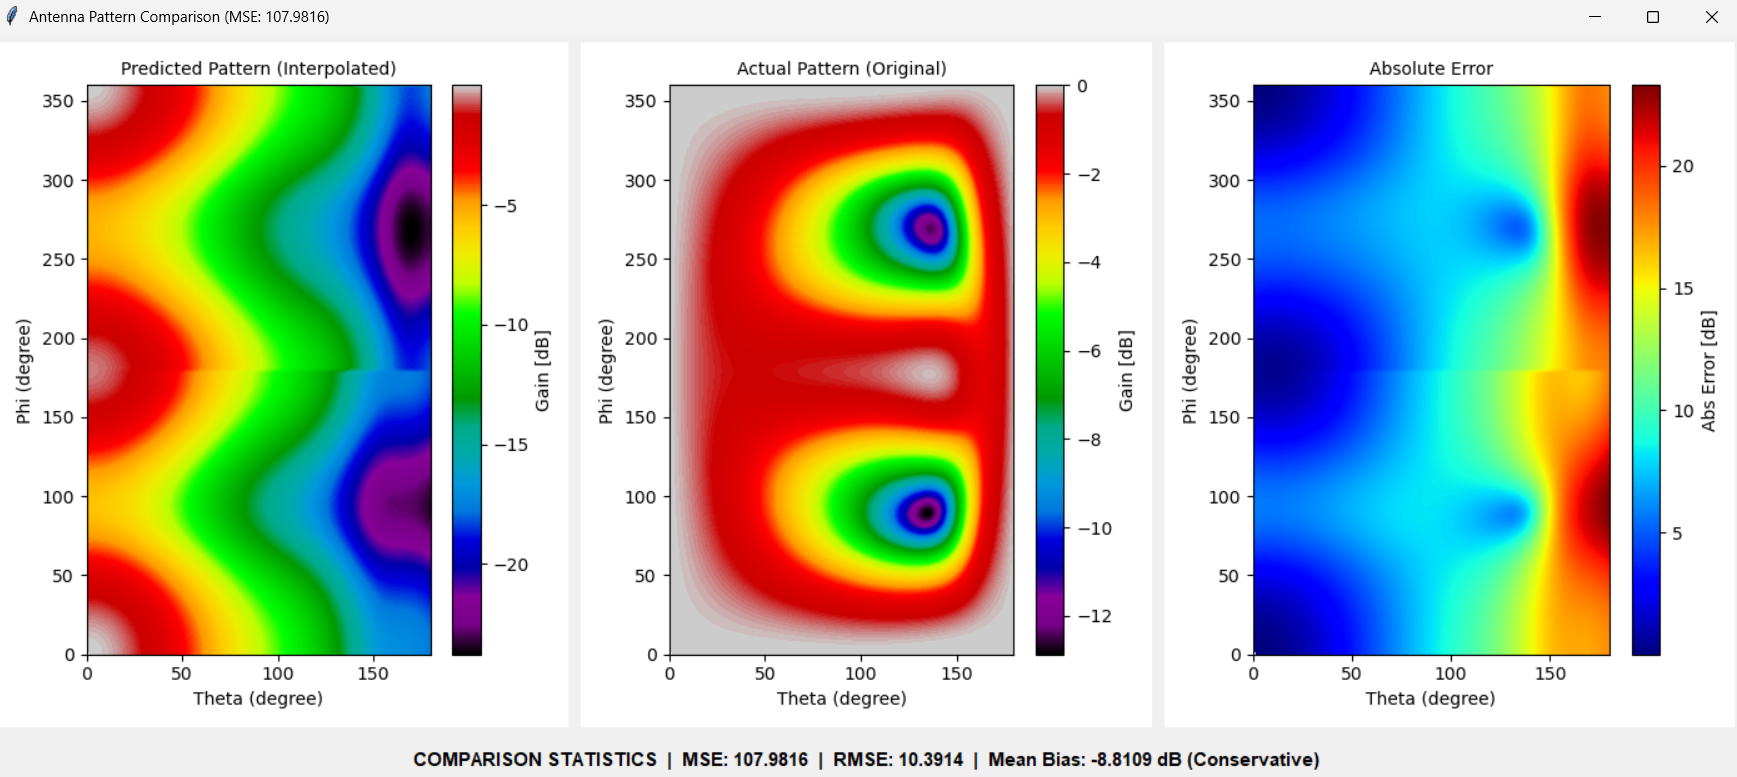
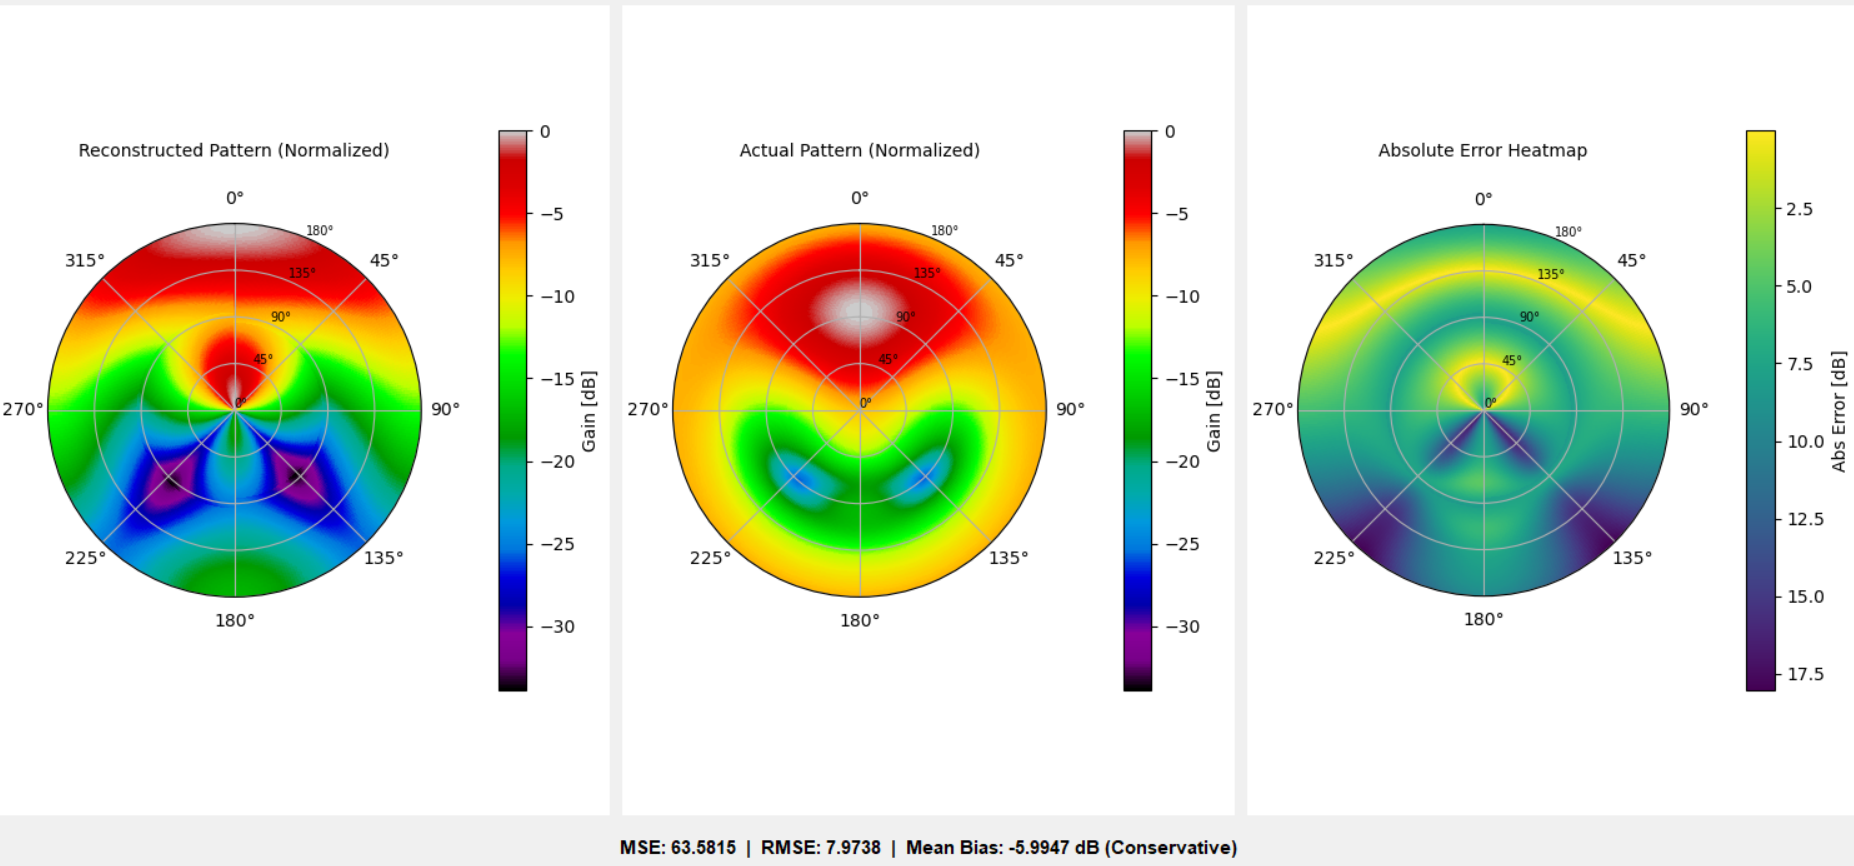
Quartz sync: May 15, 2026, 12:56 PM

diff --git a/quartz/components/Footer.tsx b/quartz/components/Footer.tsx
@@ -14,7 +14,7 @@ export default ((opts?: Options) => {
     return (
   <footer class={`${displayClass ?? ""}`}>
     <p>
-    Last updated: April 30, 2026. © Paul Mola.
+    Last updated: May 15, 2026. © Paul Mola.
     </p>
   </footer>
     )

diff --git a/content/Technical Projects/antenna-pattern-interpolator.md b/content/Technical Projects/antenna-pattern-interpolator.md
@@ -30,17 +30,23 @@ Paul's Interpolation Engine (PIE) is a tool designed to reconstruct the full 3-D
 * This allows you to reconstruct the full pattern using 720 datapoints (360 Azimuth, 360 Elevation). <b>Doing this by measurement would require around 65,000 datapoints</b>.
 * This tool requires ~1% of the required data to function, so there is an obvious tradeoff in accuracy. This is a tool for rapid estimation, not precise calculation.
 
+![Pre Interpolation Pattern](PreInterpolationRaw.png)
+
+<p align="center" style="font-size: 0.8rem; color: grey; margin-top: -10px;">
+  <em>Figure 1: PIE Graphic User Interface. Original Pattern Window.</em>
+</p>
+
 ![Cover Page](CoverPage.png)
 
 <p align="center" style="font-size: 0.8rem; color: grey; margin-top: -10px;">
-  <em>Figure 1: PIE graphic user interface. 3D Pattern Window</em>
+  <em>Figure 2: PIE Graphic User Interface. Reconstructed 3D Pattern Window.</em>
 </p>
 
 * $\mathbf{G}_{az}(\phi)$ represents the gain in the azimuthal plane where $\theta$ is fixed as $90^\circ$ or $0^\circ$ depending on mounting.
 * $\mathbf{G}_{el}(\theta)$ represents the gain in the elevation plane where $\phi=0^\circ$ for the front hemisphere and $\phi=180^\circ$ for the back.
 * Data must be normalized such that the maximum gain equals $0~\text{dB}$ to preserve the integrity of the Summing Algorithm.
 
-The goal of this tool is to aid in rapid visualization of antenna coverage without the time-consuming full-sphere anechoic measurements or computationally expensive 3-D simulations.
+The goal of this tool is to aid in rapid prototyping and visualization of antenna patterns without the time-consuming anechoic chamber measurements or computationally expensive 3-D simulations.
 
 
 <div class="mermaid-container" style="display: flex; justify-content: center; transform: transform-origin: top center;">
@@ -71,7 +77,7 @@ graph TD
 </div>
 
 <p align="center" style="font-size: 0.8rem; color: grey; margin-top: -10px;">
-  <em>Figure 2: Interpolation Flowchart</em>
+  <em>Figure 3: Interpolation Flowchart.</em>
 </p>
 
 <br>
@@ -81,34 +87,35 @@ graph TD
 > 
 > <div align="center">
 >   <img src="U7OutdoorImage.png" alt="UniFi U7 Outdoor Router">
->   <p style="font-size: 0.8rem; color: grey; margin-top: -10px;"><em>Figure 3: UniFi U7 Outdoor Router</em></p>
+>   <p style="font-size: 0.8rem; color: grey; margin-top: -10px;"><em>Figure 4: UniFi U7 Outdoor Router.</em></p>
 > </div>
 > 
 > Contained below are a couple of graphs provided by UniFi for this router [1].
 > 
 > <div align="center">
 >   <img src="U7-Outdoor-Patterns.png" alt="Antenna Pattern">
->   <p style="font-size: 0.8rem; color: grey; margin-top: -10px;"><em>Figure 4: UniFi-provided antenna patterns for the U7 Outdoor Router</em></p>
+>   <p style="font-size: 0.8rem; color: grey; margin-top: -10px;"><em>Figure 5: UniFi-provided antenna patterns for the U7 Outdoor Router.</em></p>
 > </div>
 > 
 > Aside from these graphs, UniFi also provides the data points for their antenna patterns in a `.ant` file:
 > * **First 360 values:** Azimuth plane
 > * **Next 360 values:** Elevation plane
 >
-> All 3D patterns on this page are reconstructed using the `.ant` file for a **U7 Router @ 5 GHz**.
+> All 3D patterns on this page are reconstructed using the `.ant` or `.txt` file for a **U7 Router operating at 5 GHz**.
 
 ## 2D Interpolation
 
-The tool accepts text file inputs (.ant, .txt, .csv) containing a column of gain values (in normalized dB). The only requirements are:
+The tool accepts text file inputs (.ant or .txt) containing a column of gain values. The only requirements are:
  * The total number of data points is an <b>even</b> number divided equally between azimuth and elevation (top half of file is azimuth data, bottom half is elevation).
  * The total number of data points is at least 10 (Minimum: 5 Azimuth, 5 Elevation).
+ * Input gain values should be in dB. The absolute gain reference is discarded when the data is normalised to the peak value.
 
- Before passing these data points for 3-D interpolation, Cubic Splines are used to map the arbitrary number of input points to a standard 360-point grid at 1-degree resolution.
+ Before passing these data points for 3-D interpolation, cubic splines are used to map the arbitrary number of input points to a standard 360-point grid at 1-degree resolution.
 
 ![Interpolation Demonstration](/static/InterpolationDemo.png)
 
  <p align="center" style="font-size: 0.8rem; color: grey; margin-top: -10px;">
-   <em>Figure 5: 2D interpolation using Cubic Splines</em>
+   <em>Figure 6: 2D Interpolation Example with Cubic Splines.</em>
  </p>
 
 ## 3D Interpolation
@@ -120,16 +127,16 @@ The purpose of 3-D interpolation is to take the smoothed input data ($360$ Azimu
 > ![SummingPatternT](ReconstructedPatternSummingTRUE.png)
 
 <p align="center" style="font-size: 0.8rem; color: grey; margin-top: -10px;">
-  <em>Figure 6: 3-D radiation pattern reconstructed using the Summing Algorithm</em>
+  <em>Figure 7: 3-D Radiation Pattern Reconstructed with Summing Algorithm.</em>
 </p>
 
-The first method is the Summing Algorithm [3, p.1]. This approach adds the logarithmic (dB) gain elevation and azimuth patterns. This is mathematically equivalent to multiplying the linear gain patterns.
+The first method is the Summing Algorithm [3, p.1]. This approach adds the logarithmic (dB) gain elevation and azimuth cuts. This is mathematically equivalent to multiplying the linear gain patterns.
 
 $$
 {G}_{\text{sum}}(\theta, \phi) = G_{\text{az}}(\phi) + G_{\text{el}}(\theta) \ [dB]
 $$
 
-* This method can perfectly reconstruct omni-directional patterns (e.g., dipoles) with no error due to their inherent axial symmetry [2,p.2].
+* This method can perfectly reconstruct omni-directional patterns (e.g., dipoles) with no error due to their inherent axial symmetry, however, it assumes pattern separability [2,p.2].
 * The Summing method is effective at reconstructing the main lobe of directive antennas but interpolation can fail with side lobes.
 * Summing <u>systematically underestimates gain</u> in complex directional antennas. This can be good if you want a conservative estimate.
 * Summing can introduce artifacts ("creases") at the intersection of the principal cuts.
@@ -141,10 +148,10 @@ $$
 >![ApproximationPatternT](ReconstructedPatternApproximationTRUE.png)
 
 <p align="center" style="font-size: 0.8rem; color: grey; margin-top: -10px;">
-  <em>Figure 7: 3-D radiation pattern reconstructed using the Approximation Algorithm</em>
+  <em>Figure 8: 3-D Radiation Pattern Reconstructed with Approximation Algorithm.</em>
 </p>
 
-The Approximation Algorithm is a variation on summing which introduces geometric cross-weighting. This means that the magnitude of the azimuthal cut is used to weigh the contribution of the elevation cut and vice versa. Or in other words, one of the principal planar cuts is related to its orthogonal pair as a function of its normalized linear magnitude. This approach addresses the inherent weakness of summing with reconstructing side lobes.
+The Approximation Algorithm is a variation on summing which introduces geometric cross-weighting (p-norm blend). This means that the magnitude of the azimuthal cut is used to weigh the contribution of the elevation cut and vice-versa. In other words, one of the principal planar cuts is related to its orthogonal pair as a function of its normalized linear magnitude. This approach addresses the inherent weakness of summing with reconstructing side lobes.
 
 At an arbitrary point $(\theta, \phi)$, the approximated antenna gain is [2, p.2-3]:
 
@@ -193,7 +200,7 @@ $$
 
 Interpolation is governed by the <b>normalization parameter ($k$)</b>, which controls the mathematical locus of the weights. Increasing k produces a more conservative (lower gain) estimate.
 * **$k=1$**: Applies standard linear weighting.
-* **$k=2$** (Default): Minimizes approximation error for standard directional antennas [2,p.3].
+* **$k=2$** (Default): Uses Euclidean blending (square root of the sum of squares). This has been seen to minimize approximation error for standard directional antennas [2,p.3].
 * **$k \to \infty$**: The behavior converges to the Summing Algorithm.
 
 <br>
@@ -204,10 +211,10 @@ Interpolation is governed by the <b>normalization parameter ($k$)</b>, which con
 >![HybridPatternT](ReconstructedPatternHybridTRUE.png)
 
 <p align="center" style="font-size: 0.8rem; color: grey; margin-top: -10px;">
-  <em>Figure 8: 3-D radiation pattern reconstructed using the Hybrid Algorithm</em>
+  <em>Figure 9: 3-D Radiation Pattern Reconstructed with Hybrid Algorithm.</em>
 </p>
 
-The Hybrid Algorithm [2, p.2] is a weighted mix that uses the Summing algorithm for the main lobe (where it is most accurate) and the approximation algorithm for the side lobes. This approach works by increasing or decreasing the weight of the two algorithms based on angular distance.
+The Hybrid Algorithm [2, p.2] is a weighted mix of the Summing and Approximation algorithms which cross fades based on local gain intensity. This approach works by increasing or decreasing the weight of the two algorithms based on angular distance.
 
 $$
 G_{\text{hyb}}(\theta, \phi) = [G_{\text{sum}}(\phi, \theta) \cdot w_3] + [{G}_{\text{app}}(\theta, \phi) \cdot (1 - w_3)]
@@ -230,34 +237,9 @@ $$
 
 ## Evaluation of Error
 
-For the UniFi antennas, I did not have the full 3-D pattern available to me, only the principal cuts. So 3-D interpolation error was found by comparing the original principal planes with cuts made from the reconstructed 3-D pattern. 
+For the UniFi U7 Outdoor, I did not have the full 3-D pattern available to me, only the principal cuts. It would not have been rigorous, or even meangful, to compare planar slices from the reconstructed pattern with the planar slices used as an input. There is little that can be extrapoled from such a restricted scope to the overall error or error in key pattern features.
 
-$$
-\text{Error}_{\text{az}} = G_{\text{az}}(\phi) - \hat{G}(\phi, \theta = \frac{\pi}{2})
-$$
-
-$$
-\text{Error}_{\text{el}} = 
-\begin{cases} 
-G_{\text{el}}(\theta) - \hat{G}(\theta, \phi=0) & 0 \le \theta < \pi \\
-G_{\text{el}}(\theta) - \hat{G}(\theta, \phi=\pi) & \pi \le \theta < 2\pi 
-\end{cases}
-$$
-
-This produces a graph which looks like:
-![ErrorDemoH](ErrorDemoH.png)
-
-<p align="center" style="font-size: 0.8rem; color: grey; margin-top: -10px;">
-  <em>Figure 9: Error comparison between original principal planes and reconstructed pattern cuts</em>
-</p>
-
-> [!WARNING]
-> **This is a non-rigorous approach to calculating error**! While useful, cases may exist where an interpolation method has greater error in the principal slices while having less error in the interpolated 3-D pattern overall (or vice versa). The optimal way to calculate 3-D interpolation error would be finding the difference between the original 3-D antenna pattern and the pattern reconstructed from the principal planes. <br>
-> $$
-> \text{Error}= \left| G(\theta, \phi) - \hat{G}(\theta, \phi) \right|
-> $$
->
-> > [!Success] Note: Using a different antenna pattern, I went back and [[CalculatingTotalError|calculated total error here]] using the optimal method.
+> I decided to export a pattern from HFSS, manually extract the azimuth and elevation slices, interpolate a full pattern, then compare the full 3D-patterns. The results can be found [[CalculatingTotalError|here]]. 
 
 
 ## References

diff --git a/content/Notes/CalculatingTotalError.md b/content/Notes/CalculatingTotalError.md
@@ -11,44 +11,32 @@ tags:
 
 ## Overview
 
-For one of my technical projects, I created an [[antenna-pattern-interpolator|Antenna Pattern Interpolation Tool]] (named "PIE") which was an open source recreation of a function inside MATLAB's Antenna Toolbox. However, when developing it, I used antenna patterns provided by UniFi for their commercial routers. These only had the principal 2D cuts, so I wasn't able to calculate total error by comparing 3D patterns before and after interpolation. 
+For one of my technical projects, I created an [[antenna-pattern-interpolator|Antenna Pattern Interpolation Tool]] (named "PIE") which was an open source recreation of a function inside MATLAB's Antenna Toolbox. However, when developing it, I used antenna patterns provided by UniFi for their commercial routers. These only had the principal 2D cuts, so I wasn't able to calculate total error by comparing 3D patterns before and after interpolation. What I'm setting out to do here is export the principal 2D slices of an antenna pattern from HFSS, run PIE to get the reconstructed 3D pattern, and then compare that with the 3D antenna pattern exported from HFSS. 
 
-What I'm setting out to do here is export the principal 2D slices of an antenna pattern from HFSS, run PIE to get the reconstructed 3D pattern, and then compare that with the 3D antenna pattern exported from HFSS. This would give me a more robust way to test how the tool functions looking at total error.
+$$
+\text{Error}= \left| G(\theta, \phi) - \hat{G}(\theta, \phi) \right|
+$$
+
+This would give me a more robust way to test how the tool functions by looking at total error. In addition, I can more easily see how the algorithms perform when presented with complex patterns where the underlying assumptions (e.g. pattern seperability) are violated.
 * All gain patterns are for the [[patch-antenna|Microstrip Patch Antenna]] I designed.
-* Note: Interpolation was performed using default weights ($k=2.0$, $n=5.0$)
+* Note: Interpolation was performed using standard weights ($k=2.0$, $n=5.0$). Improved results could be found by tuning weights, but I wanted to test the script's default performance.
 
 ## Exporting from HFSS
 
-First, I exported the 2D and 3D gain plots for the antenna. This data was exported from HFSS in the form of a CSV, but representative images are displayed below:
-
-<div style="display: flex; justify-content: center; gap: 20px;">
-  <div style="width: 48%; text-align: center;">
-    <img src="2DPolarPlot-Elevation.png" alt="2D ElevationPlot Patch" width="100%">
-    <p style="font-size: 0.8rem; color: grey; margin-top: 5px;">
-      <em>Fig. 1. Patch antenna gain plot, elevation cut, exported from HFSS.</em>
-    </p>
-  </div>
-
-  <div style="width: 48%; text-align: center;">
-    <img src="2DPolarPlot-Azimuth.png" alt="2D AzimuthPlot Patch" width="100%">
-    <p style="font-size: 0.8rem; color: grey; margin-top: 5px;">
-      <em>Fig. 2. Patch antenna gain plot, azimuthal cut, exported from HFSS.</em>
-    </p>
-  </div>
-</div>
+First, I exported the 3D gain plots for the antenna. This data was exported from HFSS in the form of a CSV, but representative images are displayed below:
 
 <div style="display: flex; justify-content: center; align-items: flex-end; gap: 20px;">
   <div style="width: 40%; text-align: center;">
-    <img src="3DPolarPlot.png" alt="3D PolarPlot Patch" width="100%">
+    <img src="3DPolarPlot.png" alt="3D Polar Plot" width="100%">
     <p style="font-size: 0.8rem; color: grey; margin-top: 5px;">
-      <em>Fig. 3. Patch antenna 3D gain plot, exported from HFSS.</em>
+      <em>Fig. 1. Patch Antenna 3D Polar Plot, Normalized Gain. Exported from HFSS.</em>
     </p>
   </div>
 
   <div style="width: 55%; text-align: center;">
-    <img src="2DGainContourPlotHFSSPatch.png" alt="2D Gain Contour Plot Patch" width="100%">
+    <img src="MicrostripPatchModel.png" alt="Patch Antenna Geometry" width="100%">
     <p style="font-size: 0.8rem; color: grey; margin-top: 5px;">
-      <em>Fig. 4. Patch antenna 2D gain heatmap, exported from HFSS.</em>
+      <em>Fig. 2. Patch Antenna Geometry. Exported from HFSS.</em>
     </p>
   </div>
 </div>
@@ -56,7 +44,7 @@ First, I exported the 2D and 3D gain plots for the antenna. This data was export
 
 ## Interpolation Output
 
-Some minor reformatting was required to convert the CSVs for the 2D polar graphs into a single ```.ant``` file. I then used this file as an input to generate the following 3D graphs with PIE:
+Next, I used a script to extract the azimuth and elevation cuts as text files from the CSV with the full 3D pattern. I used this file as an input to generate the following 3D graphs with PIE:
 
 <p align="center">
   <img src="SummingPostInterpolation.png" width="50%">
@@ -102,11 +90,11 @@ Now that I had the CSVs for both the 3D pattern from HFSS and the 3D pattern fro
   <em>Fig. 8. Patch antenna error plots, summing algorithm.</em>
 </p>
 
-* Main lobe has been reconstructed in the low $\theta$ region ($\theta < 130^{\circ}$), however, with noticeable angular spreading. We can consider this degradation relatively negligible given that the absolute error graph is predominantly blue in this region, indicating low error (< 5 dB).
+* The main lobe has been roughly reconstructed. However, there is a noticeable low-gain band around $90^{\circ}$ on the radial axis. This band seems to drive error in the forward hemisphere.
 
-* The two nulls have been reconstructed at the correct $\phi$ position (approx. $90^{\circ}$ and $270^{\circ}$). However, we can see that the $\theta$ position of these nulls has been severely degraded.
+* The location of the nulls has been correctly captured in the reconstruction with minor angular spreading. There are, however, noticeable errors in gain magnitude as seen in the error.
 
-* As a result of the failure to reconstruct the null structure, large portions of the high-$\theta$ region ($\theta > 120^{\circ}$) are dominated by severe error (red and dark orange).
+* Overall, the mean bias of -6 dB shows that the algorithm has a systematic tendency to underestimate gain considerably.
 
 ### Approximation Algorithm
 
@@ -117,9 +105,13 @@ Now that I had the CSVs for both the 3D pattern from HFSS and the 3D pattern fro
   <em>Fig. 9. Patch antenna error plots, approximation algorithm.</em>
 </p>
 
-* Main lobe has been successfully reconstructed with less angular spreading.
+* Interestingly, this method was by far the most accurate with the lowest RMSE of 4.8 dB. 
 
-* Nulls have been reconstructed with even more severe degradation in $\phi$-axis spread.
+* There is better main lobe reconstruction as the radial $90^{\circ}$ null band has decreased.
+
+* While the gain magnitude of the nulls was correctly reconstructed, even more severe degradation in $\phi$-axis spread is observed. The nulls are smeared into a continuous band at the aft hemisphere. This causes the most noticeable zone of error in the back lobe (around $225^{\circ}$ and $135^{\circ}$ on the angular axis).
+
+* With a mean bias of only -1.33 dB, the Approximation method stayed remarkably close to the overall energy envelope of the actual pattern, though still a slight underestimation.
 
 
 ### Hybrid Algorithm
@@ -131,14 +123,16 @@ Now that I had the CSVs for both the 3D pattern from HFSS and the 3D pattern fro
   <em>Fig. 10. Patch antenna error plots, hybrid algorithm.</em>
 </p>
 
-* Same fundamental pattern, successful main lobe reconstruction, failed null reconstruction.
+* Interestingly the hybrid method, which was designed to be the best of both worlds, has the worst performance in this for this pattern. Mixing approximation and summing seems only to have inhereted the errors of both algorithms. 
 
-* We can note that $\phi$-axis spread is worse than the summing algorithm but better than the approximation algorithm.
+* Noticeably, the null band in the main lobe has increased in magnitude. Additionally, the aft-nulls have severe angular smearing with the incorrect gain magnitude of summing.
+
+* The severe mean bias indicates that the Hybrid method aggressively under-predicted the gain.
 
 ## Comparison of Algorithms
 
-* In terms of total error, we find that the <u>approximation algorithm achieved the best performance overall</u> (MSE: 74.11, RMSE: 8.61 dB), followed by the hybrid algorithm (MSE: 88.67, RMSE: 9.42 dB), and then the summing algorithm (MSE: 107.98, RMSE: 10.39 dB). This is interesting because while it is intuitive to assume that the summing algorithm would perform worse, the tradeoffs between the approximation and hybrid algorithms are much more subtle.
+* In terms of total error, we find that the <u>approximation algorithm achieved the best performance overall</u> (MSE: 22.7562, RMSE: 4.7703), followed by the summing algorithm (MSE: 63.5815, RMSE: 7.9738), then the hybrid algorithm (MSE: 102.0820, RMSE: 10.1036). This is interesting because while it is intuitive to assume that summing would underperform approximation, the tradeoffs between the approximation and hybrid algorithms are much more subtle.
 
 * From the given patterns, we find that all algorithms exhibit a negative mean bias. This indicates they have a systematic behavior of underestimating the gain. 
-   * However, we find that the approximation algorithm retained the least negative bias (-6.97 dB), followed by the hybrid algorithm (-7.95 dB), then the summing algorithm (-8.81 dB).
-   * This matches exactly what we expect from the literature: that the approximation algorithm is relatively the most "optimistic", the summing algorithm is the most "conservative", and the hybrid algorithm is somewhere in between depending on the weights used.
+   * However, we find that the approximation algorithm retained the least overall bias (-1.334 dB), followed by the summing (-5.9947 dB), then hybrid algorithms (-8.3444 dB).
+   * This matches exactly what we expect from the literature: that the approximation algorithm is relatively the most "optimistic", the summing algorithm is the most "conservative".

diff --git a/content/Technical Projects/patch-antenna.md b/content/Technical Projects/patch-antenna.md
@@ -17,9 +17,9 @@ tags:
   </div>
   
   <div style="flex: 1.5; text-align: center;">
-    <img src="MicrostripPatchAntenna.png" width="100%">
+    <img src="MicrostripPatchModel.png" width="100%">
     <p style="font-size: 0.8rem; color: grey; margin-top: -5px;">
-      <em>Figure 2: Simulated Patch Antenna</em>
+      <em>Figure 2: Simulated Patch Antenna, Exported from HFSS</em>
     </p>
   </div>
 
@@ -65,37 +65,10 @@ $$
 ## Simulation
 Using the initial calculated geometry, I simulated the antenna performance with HFSS. This step was used to iteratively refine the calculated values before fabrication. The images below pertain to the final values.
 
-<div style="display: flex; justify-content: center; gap: 20px;">
-  <div style="width: 48%; text-align: center;">
-    <img src="2DPolarPlot-Elevation.png" alt="2D ElevationPlot Patch" width="100%">
-    <p style="font-size: 0.8rem; color: grey; margin-top: 5px;">
-      <em>Figure 4: Gain plot, elevation cut. Exported from HFSS</em>
-    </p>
-  </div>
-
-  <div style="width: 48%; text-align: center;">
-    <img src="2DPolarPlot-Azimuth.png" alt="2D AzimuthPlot Patch" width="100%">
-    <p style="font-size: 0.8rem; color: grey; margin-top: 5px;">
-      <em>Figure 5: Gain plot, azimuthal cut. Exported from HFSS</em>
-    </p>
-  </div>
-</div>
-
-<div style="display: flex; justify-content: center; align-items: flex-end; gap: 20px;">
-  <div style="width: 40%; text-align: center;">
-    <img src="3DPolarPlot.png" alt="3D PolarPlot Patch" width="100%">
-    <p style="font-size: 0.8rem; color: grey; margin-top: 5px;">
-      <em>Figure 6: 3D gain plot. Exported from HFSS</em>
-    </p>
-  </div>
-
-  <div style="width: 55%; text-align: center;">
-    <img src="2DGainContourPlotHFSSPatch.png" alt="2D Gain Contour Plot Patch" width="100%">
-    <p style="font-size: 0.8rem; color: grey; margin-top: 5px;">
-      <em>Figure 7: 2D Gain Heatmap. Exported from HFSS</em>
-    </p>
-  </div>
-</div>
+![3D Polar Plot PROJECT](3DPolarPlot.png)
+<p align="center" style="font-size: 0.8rem; color: grey; margin-top: -10px;">
+  <em>Figure x: 3D Polar Plot, Normalized Gain. Exported from HFSS</em>
+</p>
 
 
 <div style="display: flex; gap: 10px; justify-content: center; align-items: center;">
